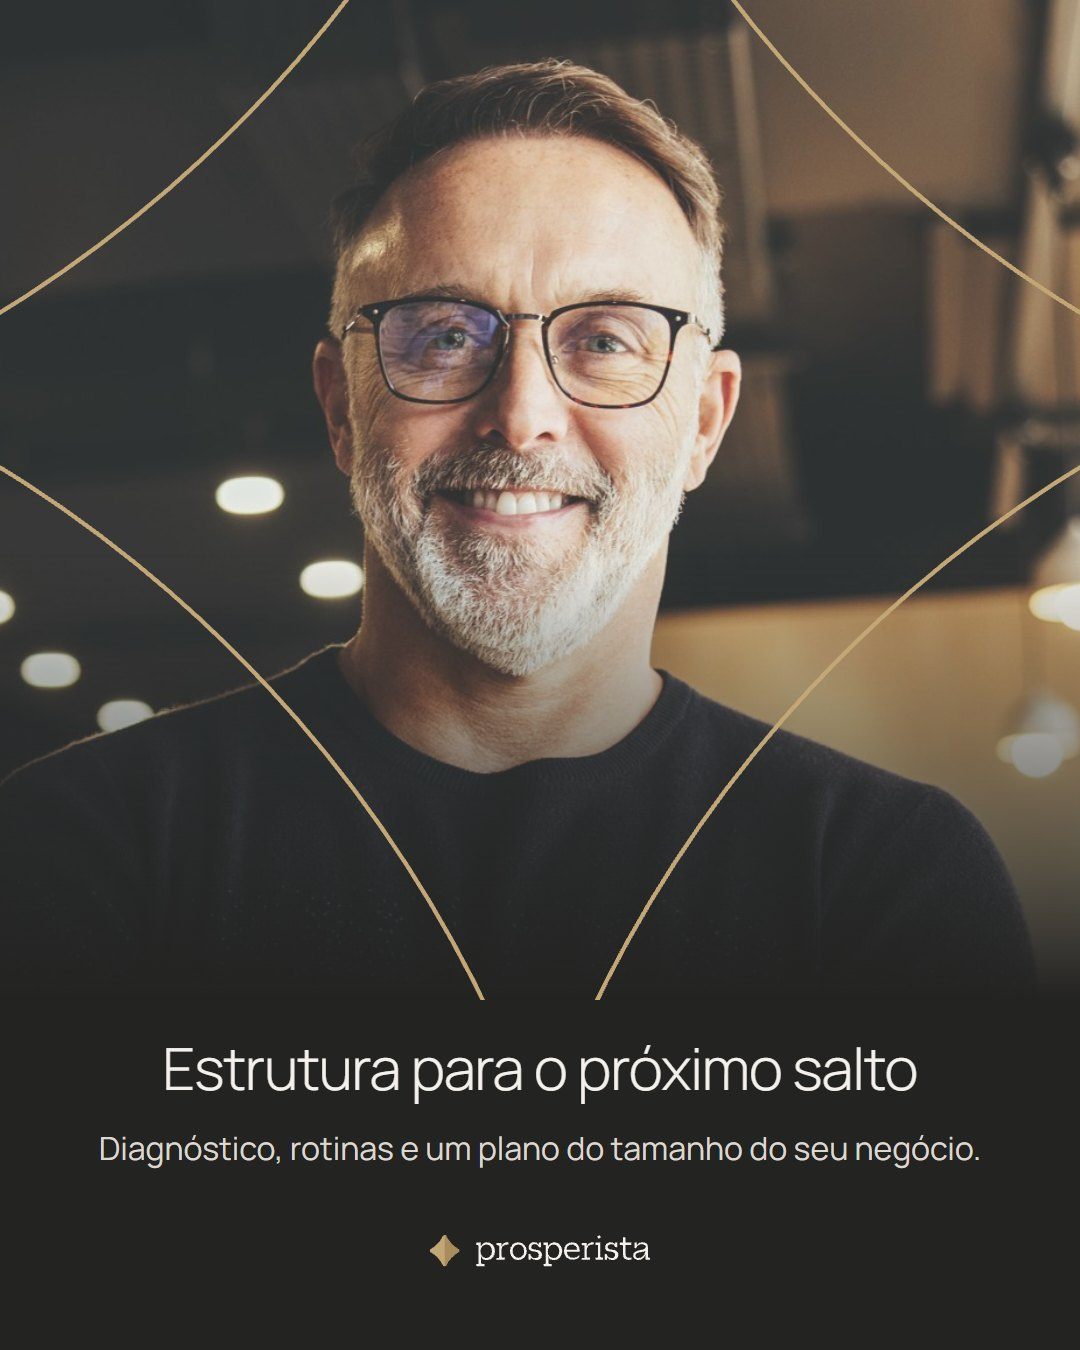
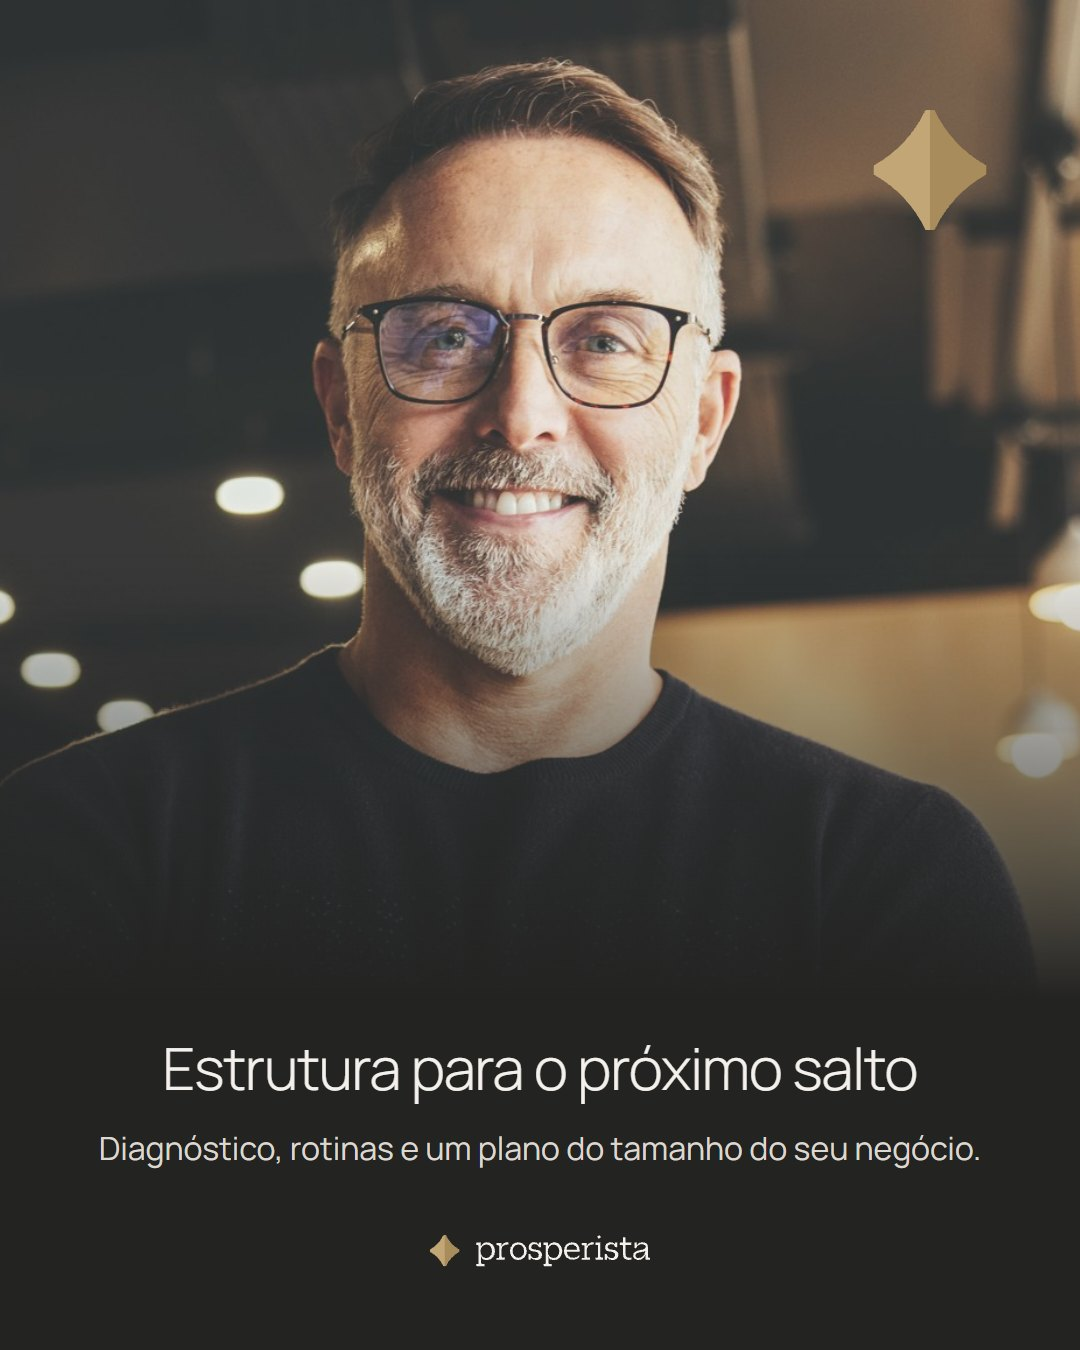
Peca A luz substitui o contorno em volta da pessoa

diff --git a/index.html b/index.html
@@ -452,16 +452,16 @@ go(0);})();</script>
 <p class="vz-src">Estrutura baseada nas três ondas de valor (produto, pessoas e propósito) de Ana Couto, <i>A (R)evolução do Branding</i>, 2023. Voz constante e tom variável: <i>Content Style Guide</i>, Mailchimp; Nicole Fenton e Kate Kiefer Lee, <i>Nicely Said</i>.</p></div></div><div class="sec" data-aba="voz"><div class="num"><b>08</b>Personalidade</div><div><div class="k-eye">Personalidade</div><h2 class="vz-h">Quatro traços, cada um com o seu&nbsp;limite.</h2>
 <div class="vz-tr"><div class="vz-t"><div class="vz-tw"><b>Clara</b><span>não simplista</span></div><div class="vz-tb"><p>Explica o complexo em palavras comuns, sem tirar a&nbsp;profundidade.</p><div class="vz-ex"><div class="sim"><i>Assim</i>Seu caixa aperta todo mês porque as contas vencem antes de o dinheiro&nbsp;entrar.</div><div class="nao"><i>Não assim</i><s>Sua empresa apresenta um descasamento no ciclo financeiro operacional.</s></div></div></div></div><div class="vz-t"><div class="vz-tw"><b>Próxima</b><span>não íntima</span></div><div class="vz-tb"><p>Fala com o empresário como quem conhece o dia a dia dele, sem forçar&nbsp;intimidade.</p><div class="vz-ex"><div class="sim"><i>Assim</i>Sabemos que o dia termina e a lista&nbsp;não.</div><div class="nao"><i>Não assim</i><s>E aí, bora turbinar esse negócio? 🚀</s></div></div></div></div><div class="vz-t"><div class="vz-tw"><b>Pragmática</b><span>não fria</span></div><div class="vz-tb"><p>Vai direto ao que funciona e mostra o porquê. Recomenda o próximo passo, não a&nbsp;teoria.</p><div class="vz-ex"><div class="sim"><i>Assim</i>Recomendamos começar pelo fluxo de caixa: é ele que libera as outras&nbsp;decisões.</div><div class="nao"><i>Não assim</i><s>É fundamental adotar uma visão holística e sistêmica da gestão.</s></div></div></div></div><div class="vz-t"><div class="vz-tw"><b>Otimista</b><span>não eufórica</span></div><div class="vz-tb"><p>Acredita no crescimento com os pés no chão. Promete processo, não&nbsp;milagre.</p><div class="vz-ex"><div class="sim"><i>Assim</i>Em doze semanas, você terá um plano e as rotinas para&nbsp;acompanhá-lo.</div><div class="nao"><i>Não assim</i><s>Triplique seu faturamento em 90 dias!</s></div></div></div></div></div></div></div><div class="sec" data-aba="voz"><div class="num"><b>08</b>Tom</div><div><div class="k-eye">Tom por canal</div><h2 class="vz-h">O mesmo jeito de falar, em cada&nbsp;lugar.</h2>
 <div class="vz-ctx"><div class="vz-ch"><span>Canal</span><span>Assim</span><span>Não assim</span></div><div class="vz-c"><div><b>Proposta</b><em>Formal e completa</em></div><div class="vz-a">Nas primeiras quatro semanas, levantamos os números e as rotinas&nbsp;atuais.</div><div class="vz-x"><s>Iremos realizar um robusto processo de imersão estratégica.</s></div></div><div class="vz-c"><div><b>LinkedIn</b><em>Reflexivo</em></div><div class="vz-a">Toda empresa chega a um ponto em que o talento do dono não basta&nbsp;mais.</div><div class="vz-x"><s>Estamos muito felizes em anunciar nossa nova solução disruptiva!</s></div></div><div class="vz-c"><div><b>Instagram</b><em>Leve e visual</em></div><div class="vz-a">3 sinais de que sua empresa pede mais&nbsp;estrutura.</div><div class="vz-x"><s>Você NÃO pode perder essas dicas incríveis!!!</s></div></div><div class="vz-c"><div><b>WhatsApp</b><em>Direto e cordial</em></div><div class="vz-a">Oi, Carlos. Enviei o resumo da reunião por e-mail. Posso te ligar amanhã às&nbsp;10h?</div><div class="vz-x"><s>Oiii, tudo bem?? Então, sobre aquilo que a gente falou…</s></div></div><div class="vz-c"><div><b>E-mail</b><em>Um pedido, um prazo</em></div><div class="vz-a">Assunto: Plano de caixa, revisão até&nbsp;sexta</div><div class="vz-x"><s>Assunto: Alinhamento</s></div></div></div></div></div><div class="sec" data-aba="voz"><div class="num"><b>08</b>Vocabulário</div><div><div class="k-eye">Vocabulário</div><h2 class="vz-h">Trocamos o jargão pela palavra que o&nbsp;empresário&nbsp;usaria.</h2>
-<div class="vz-voc"><div><div class="vz-lb">Evitamos → dizemos</div><dl class="vz-dl"><dt>alavancar</dt><dd>fazer&nbsp;crescer</dd><dt>disruptivo</dt><dd>novo</dd><dt>sinergia</dt><dd>trabalhar&nbsp;junto</dd><dt>mindset</dt><dd>jeito de&nbsp;pensar</dd><dt>hack</dt><dd>atalho</dd><dt>solução 360º</dt><dd>o que é, de&nbsp;fato</dd><dt>empoderar</dt><dd>dar&nbsp;condições</dd><dt>case de sucesso</dt><dd>resultado</dd></dl></div><div><div class="vz-lb">Palavras da casa</div><ul class="vz-us"><li>estrutura</li><li>clareza</li><li>rotina</li><li>decisão</li><li>ao&nbsp;lado</li><li>plano</li><li>acompanhamento</li><li>do tamanho&nbsp;certo</li></ul></div></div></div></div><div class="sec" data-aba="voz"><div class="num"><b>08</b>Escrita</div><div><div class="k-eye">Escrita</div><h2 class="vz-h">Seis&nbsp;regras.</h2><div class="vz-rg"><div><span class="vz-n">01</span><b>Frases curtas</b><p>Uma ideia por frase. Se precisou de três vírgulas, vire&nbsp;duas&nbsp;frases.</p></div><div><span class="vz-n">02</span><b>Voz ativa</b><p>“Recomendamos o caminho”, não “o caminho foi recomendado”. Mostra&nbsp;quem&nbsp;fala.</p></div><div><span class="vz-n">03</span><b>Números concretos</b><p>“Doze semanas” e “três frentes”, não “em pouco tempo” e&nbsp;“várias&nbsp;áreas”.</p></div><div><span class="vz-n">04</span><b>“Você”, sempre</b><p>Falamos com uma pessoa, não com “o cliente” ou&nbsp;“as&nbsp;empresas”.</p></div><div><span class="vz-n">05</span><b>Sem exclamação</b><p>A segurança está no conteúdo. Emoji só em redes sociais,&nbsp;com&nbsp;parcimônia.</p></div><div><span class="vz-n">06</span><b>Nome da marca</b><p>No logotipo, prosperista em caixa-baixa. No texto corrido, Prosperista com&nbsp;inicial&nbsp;maiúscula.</p></div></div></div></div><div class="sec" data-aba="fotografia"><div class="num"><b>09</b>Fotografia</div><div><div class="ft-hero"><div class="ft-hero-t"><div class="k-eye">Fotografia</div><h2>Gente real,<br>cor de verdade.</h2></div><figure class="ft-o ft-himg"><img src="fotos/ia-empresario-2.jpg?v=muolavvs" alt=""></figure></div>
+<div class="vz-voc"><div><div class="vz-lb">Evitamos → dizemos</div><dl class="vz-dl"><dt>alavancar</dt><dd>fazer&nbsp;crescer</dd><dt>disruptivo</dt><dd>novo</dd><dt>sinergia</dt><dd>trabalhar&nbsp;junto</dd><dt>mindset</dt><dd>jeito de&nbsp;pensar</dd><dt>hack</dt><dd>atalho</dd><dt>solução 360º</dt><dd>o que é, de&nbsp;fato</dd><dt>empoderar</dt><dd>dar&nbsp;condições</dd><dt>case de sucesso</dt><dd>resultado</dd></dl></div><div><div class="vz-lb">Palavras da casa</div><ul class="vz-us"><li>estrutura</li><li>clareza</li><li>rotina</li><li>decisão</li><li>ao&nbsp;lado</li><li>plano</li><li>acompanhamento</li><li>do tamanho&nbsp;certo</li></ul></div></div></div></div><div class="sec" data-aba="voz"><div class="num"><b>08</b>Escrita</div><div><div class="k-eye">Escrita</div><h2 class="vz-h">Seis&nbsp;regras.</h2><div class="vz-rg"><div><span class="vz-n">01</span><b>Frases curtas</b><p>Uma ideia por frase. Se precisou de três vírgulas, vire&nbsp;duas&nbsp;frases.</p></div><div><span class="vz-n">02</span><b>Voz ativa</b><p>“Recomendamos o caminho”, não “o caminho foi recomendado”. Mostra&nbsp;quem&nbsp;fala.</p></div><div><span class="vz-n">03</span><b>Números concretos</b><p>“Doze semanas” e “três frentes”, não “em pouco tempo” e&nbsp;“várias&nbsp;áreas”.</p></div><div><span class="vz-n">04</span><b>“Você”, sempre</b><p>Falamos com uma pessoa, não com “o cliente” ou&nbsp;“as&nbsp;empresas”.</p></div><div><span class="vz-n">05</span><b>Sem exclamação</b><p>A segurança está no conteúdo. Emoji só em redes sociais,&nbsp;com&nbsp;parcimônia.</p></div><div><span class="vz-n">06</span><b>Nome da marca</b><p>No logotipo, prosperista em caixa-baixa. No texto corrido, Prosperista com&nbsp;inicial&nbsp;maiúscula.</p></div></div></div></div><div class="sec" data-aba="fotografia"><div class="num"><b>09</b>Fotografia</div><div><div class="ft-hero"><div class="ft-hero-t"><div class="k-eye">Fotografia</div><h2>Gente real,<br>cor de verdade.</h2></div><figure class="ft-o ft-himg"><img src="fotos/ia-empresario-2.jpg?v=281026a" alt=""></figure></div>
 <p class="vz-intro">Fotos naturais e vivas, de empresários e equipes no dia a dia do trabalho. A cor da marca não entra na foto: ela vem nos elementos que acompanham a imagem, como a estrela, as faixas e&nbsp;os&nbsp;textos.</p>
-<div class="ft-dir"><div class="ft-dir-t"><div class="vz-lb">Diretrizes conceituais</div><p>As fotos mostram empresas reais, da pequena à média, em ambientes de trabalho organizados: escritório, loja,&nbsp;depósito,&nbsp;oficina.</p><p>As pessoas aparecem no contexto do trabalho: conversando, decidindo, apresentando. A câmera registra o momento, não&nbsp;pede&nbsp;pose.</p><p>Ângulos variados, de cima, de baixo, bem de perto, para fugir da foto de reunião de sempre. Emoção de verdade: o riso, a concentração, o gesto de&nbsp;explicar.</p><p>Espontaneidade e otimismo, com os pés no chão: o mesmo tom da voz&nbsp;da&nbsp;marca.</p></div><div class="ft-dir-g"><figure class="g1 ft-o"><img src="fotos/loja.jpg?v=muolavvs" alt=""></figure><figure class="g2 ft-o"><img src="fotos/vendas.jpg?v=muolavvs" alt=""></figure><figure class="g3 ft-o"><img src="fotos/operacao.jpg?v=muolavvs" alt=""></figure><figure class="g4 ft-o"><img src="fotos/decima.jpg?v=muolavvs" alt=""></figure></div></div>
+<div class="ft-dir"><div class="ft-dir-t"><div class="vz-lb">Diretrizes conceituais</div><p>As fotos mostram empresas reais, da pequena à média, em ambientes de trabalho organizados: escritório, loja,&nbsp;depósito,&nbsp;oficina.</p><p>As pessoas aparecem no contexto do trabalho: conversando, decidindo, apresentando. A câmera registra o momento, não&nbsp;pede&nbsp;pose.</p><p>Ângulos variados, de cima, de baixo, bem de perto, para fugir da foto de reunião de sempre. Emoção de verdade: o riso, a concentração, o gesto de&nbsp;explicar.</p><p>Espontaneidade e otimismo, com os pés no chão: o mesmo tom da voz&nbsp;da&nbsp;marca.</p></div><div class="ft-dir-g"><figure class="g1 ft-o"><img src="fotos/loja.jpg?v=281026a" alt=""></figure><figure class="g2 ft-o"><img src="fotos/vendas.jpg?v=281026a" alt=""></figure><figure class="g3 ft-o"><img src="fotos/operacao.jpg?v=281026a" alt=""></figure><figure class="g4 ft-o"><img src="fotos/decima.jpg?v=281026a" alt=""></figure></div></div>
 <div class="ft-sn"><div><div class="vz-lb">Sim</div><ul><li>Empresários e equipes reais, no dia a dia do&nbsp;trabalho</li><li>Luz natural, de preferência de&nbsp;janela</li><li>Cor natural e viva, só com o tratamento&nbsp;Prosperista</li><li>Gesto de conversa, de trabalho junto, de&nbsp;decisão</li><li>Roupa lisa e sóbria; cor viva só pontual, como um jeans ou uma&nbsp;blusa</li><li>Espaço livre para a marca e para o&nbsp;texto</li></ul></div><div><div class="vz-lb">Não</div><ul class="ft-no"><li>Aperto de mão, gráfico subindo, alvo,&nbsp;lâmpada</li><li>Sorriso de propaganda, sem contexto de&nbsp;trabalho</li><li>Filtros, tons artificiais, preto e branco&nbsp;forçado</li><li>Fundos cheios que disputam com o&nbsp;texto</li><li>Marcas de terceiros aparecendo na&nbsp;cena</li></ul></div></div><div class="ft-or"><div class="vz-lb">Três origens possíveis</div><div class="ft-or-g">
 <div><b>Ensaio próprio</b><p>O ideal para pessoas da Prosperista e clientes reais. Segue o briefing de ensaio no fim desta&nbsp;aba.</p></div>
 <div><b>Banco de imagens</b><p>Para cenas genéricas de trabalho. Sempre com licença comercial paga, em nome de quem publica. Evitar fotos muito conhecidas e poses de&nbsp;propaganda.</p></div>
 <div><b>IA generativa</b><p>Para cenas específicas que o banco não tem. Conferir mãos, textos e objetos; nunca retratar pessoas reais. Usar uma foto aprovada como referência de&nbsp;estilo.</p></div>
 </div><p class="ft-or-n">Qualquer que seja a origem, a foto passa pelo tratamento Prosperista e precisa conversar com as outras: mesma luz, mesma temperatura, mesma faixa etária e o mesmo jeito&nbsp;de&nbsp;trabalhar.</p></div>
 </div></div><div class="sec" data-aba="fotografia"><div class="num"><b>09</b>Estrela e foto</div><div><div class="k-eye">A estrela e a foto</div><h2 class="vz-h">O símbolo brinca com a imagem, sem esconder&nbsp;ninguém.</h2>
-<div class="ft-pc"><figure class=""><div class="ft-o"><img src="fotos/peca_fresta.jpg?v=muolavvs" alt="Na divisa"></div><figcaption><b>Na divisa</b>A estrela inteira apoiada na divisa entre a foto e o texto, onde as duas metades se encontram. Nunca cobre um rosto.</figcaption></figure><figure class=""><div class="ft-o"><img src="fotos/peca_janela.jpg?v=muolavvs" alt="O contorno"></div><figcaption><b>O contorno</b>Só o contorno da estrela, em champanhe, sobre a foto. Enquadra o rosto sem cobrir nada.</figcaption></figure><figure class=""><div class="ft-o"><img src="fotos/peca_meia.jpg?v=muolavvs" alt="A meia estrela"></div><figcaption><b>A meia estrela</b>Uma metade, sempre inteira, apoiada na divisa entre a foto e a faixa de texto.</figcaption></figure><figure class="ft-wide"><div class="ft-o"><img src="fotos/peca_mosaico.jpg?v=muolavvs" alt="Mosaico"></div><figcaption><b>Mosaico</b>Uma metade grande, em greige, fica atrás de uma faixa de fotos. Boa para aberturas, manifestos e capas de apresentação.</figcaption></figure><figure class="ft-wide"><div class="ft-o"><img src="fotos/peca_cards.jpg?v=muolavvs" alt="Cards"></div><figcaption><b>Cards</b>Retrato com olhar para a câmera, fundo desfocado. As metades da estrela entram nas bordas da foto, sem tocar o rosto.</figcaption></figure><figure class="ft-wide"><div class="ft-o"><img src="fotos/peca_conteudos.jpg?v=muolavvs" alt="Conteúdos"></div><figcaption><b>Conteúdos</b>Fotos de trabalho real nos cards de conteúdo. A estrela entra pequena, ao lado do tema.</figcaption></figure><figure class="ft-wide"><div class="ft-o"><img src="fotos/peca_banner.jpg?v=muolavvs" alt="Duas metades"></div><figcaption><b>Duas metades</b>As metades se encontram na foto, em cores diferentes, como quem chega de lados opostos.</figcaption></figure></div></div></div><div class="sec" data-aba="fotografia"><div class="num"><b>09</b>Como produzir</div><div>
+<div class="ft-pc"><figure class=""><div class="ft-o"><img src="fotos/peca_fresta.jpg?v=281026a" alt="Na divisa"></div><figcaption><b>Na divisa</b>A estrela inteira apoiada na divisa entre a foto e o texto, onde as duas metades se encontram. Nunca cobre um rosto.</figcaption></figure><figure class=""><div class="ft-o"><img src="fotos/peca_janela.jpg?v=281026a" alt="A luz"></div><figcaption><b>A luz</b>A estrela inteira, pequena, acende num canto livre da foto, como um ponto de luz. Nunca em volta de uma&nbsp;pessoa.</figcaption></figure><figure class=""><div class="ft-o"><img src="fotos/peca_meia.jpg?v=281026a" alt="A meia estrela"></div><figcaption><b>A meia estrela</b>Uma metade, sempre inteira, apoiada na divisa entre a foto e a faixa de texto.</figcaption></figure><figure class="ft-wide"><div class="ft-o"><img src="fotos/peca_mosaico.jpg?v=281026a" alt="Mosaico"></div><figcaption><b>Mosaico</b>Uma metade grande, em greige, fica atrás de uma faixa de fotos. Boa para aberturas, manifestos e capas de apresentação.</figcaption></figure><figure class="ft-wide"><div class="ft-o"><img src="fotos/peca_cards.jpg?v=281026a" alt="Cards"></div><figcaption><b>Cards</b>Retrato com olhar para a câmera, fundo desfocado. As metades da estrela entram nas bordas da foto, sem tocar o rosto.</figcaption></figure><figure class="ft-wide"><div class="ft-o"><img src="fotos/peca_conteudos.jpg?v=281026a" alt="Conteúdos"></div><figcaption><b>Conteúdos</b>Fotos de trabalho real nos cards de conteúdo. A estrela entra pequena, ao lado do tema.</figcaption></figure><figure class="ft-wide"><div class="ft-o"><img src="fotos/peca_banner.jpg?v=281026a" alt="Duas metades"></div><figcaption><b>Duas metades</b>As metades se encontram na foto, em cores diferentes, como quem chega de lados opostos.</figcaption></figure></div></div></div><div class="sec" data-aba="fotografia"><div class="num"><b>09</b>Como produzir</div><div>
 <div class="k-eye">Como produzir</div><h2 class="vz-h">Prompt bem montado, foto que parece da&nbsp;casa.</h2>
 <p class="vz-intro">Toda foto gerada por IA segue a mesma receita, em oito partes, sempre nesta ordem. Os prompts ficam em inglês, que os modelos&nbsp;entendem&nbsp;melhor.</p>
 <div class="pr-t"><div class="pr-th"><span></span><span>Parte</span><span>O que colocar</span><span>Exemplo</span></div><div class="pr-tr"><span class="pr-n">01</span><b>Quem</b><p>Brasileiro(a), idade (38 a 60), papel no negócio, cabelo, roupa lisa e&nbsp;sóbria.</p><i>Brazilian man in his late 40s, owner of a mid-sized company, sand linen blazer</i></div><div class="pr-tr"><span class="pr-n">02</span><b>Fazendo o quê</b><p>Uma ação de trabalho real: conversar, revisar, explicar,&nbsp;decidir.</p><i>reviewing a printed plan with his finance manager</i></div><div class="pr-tr"><span class="pr-n">03</span><b>Onde</b><p>Ambiente do próprio negócio: escritório, loja, depósito, fábrica,&nbsp;clínica.</p><i>in the bright, organized office of his own company</i></div><div class="pr-tr"><span class="pr-n">04</span><b>Câmera</b><p>Lente e ângulo. 35 mm para cena, 50 a 85 mm para retrato; de cima ou de baixo para&nbsp;variar.</p><i>slight low angle, 35mm, shallow depth of field</i></div><div class="pr-tr"><span class="pr-n">05</span><b>Luz</b><p>Natural e lateral, de preferência de janela. Nunca flash, nunca luz de estúdio&nbsp;dura.</p><i>soft natural window light from the side</i></div><div class="pr-tr"><span class="pr-n">06</span><b>Cor e estilo</b><p>Cor verdadeira; tons neutros predominando no figurino e no&nbsp;ambiente.</p><i>true-to-life natural colors, sand, off-white and charcoal tones</i></div><div class="pr-tr"><span class="pr-n">07</span><b>Restrições</b><p>O que não pode&nbsp;aparecer.</p><i>not posed, no text, no logos</i></div><div class="pr-tr"><span class="pr-n">08</span><b>Formato</b><p>Proporção conforme a peça. No Midjourney, no fim do prompt; nas outras, no&nbsp;painel.</p><i>--ar 4:5 (retrato) · --ar 3:2 (cena)</i></div></div>
